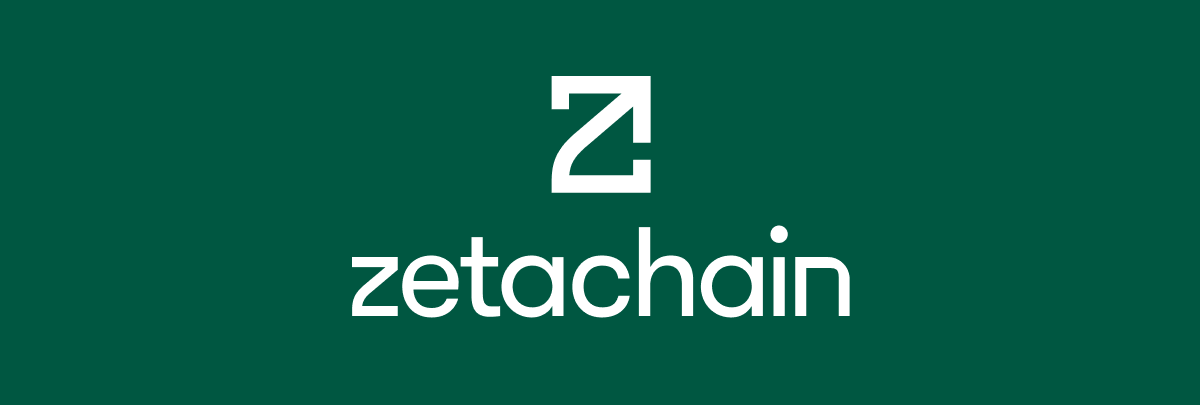
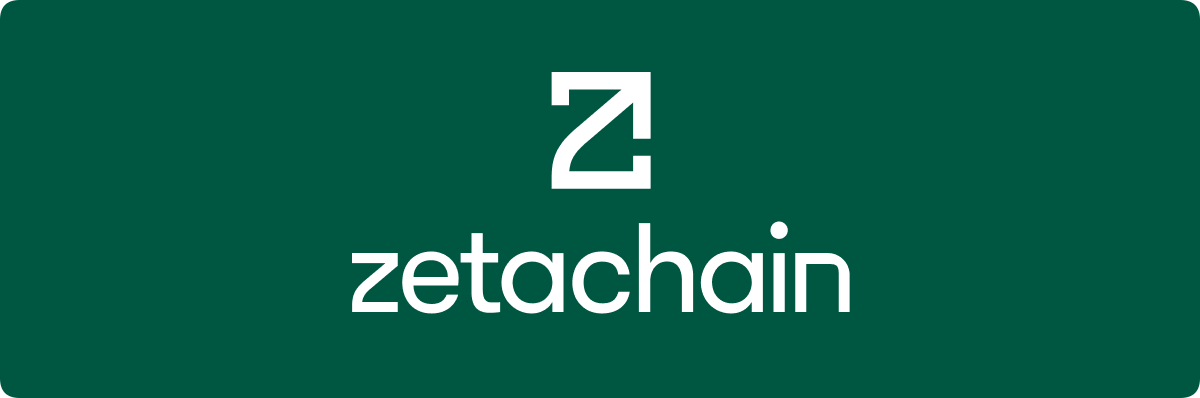
zetachain updated (#45)
* table added

* table added

* formatting added

* _category_.json updated

* telegram-bots.md updated

* new zetachain img uploaded

* description updated

diff --git a/docs/zetachain/useful-tools/telegram-bots.md b/docs/zetachain/useful-tools/telegram-bots.md
@@ -7,27 +7,13 @@ description: Telegram Bots
 
 > Telegram bots are designed to monitor nodes, provide real-time alerts and health statistics. Bots deliver instant notifications on server downtimes, resource usage, or governance proposals, enabling administrators to act swiftly in response to any anomalies.
 
-#### NodesChecker | Nodes.Guru
-Check your nodes status online and receive instant notification if something is wrong with your node.
-```bash
-https://t.me/NodesGuru_bot
-```
+To contribute your own resource, simply click on **Edit this** page at the bottom, insert your resource using Markdown formatting, and then initiate a pull request for the submission to be reviewed.
 
-#### Governance bot | NodeJumper
-A telegram bot to notify users of governance proposals when they're available for voting.
-```bash
-https://t.me/nodejumper_governance_bot
-```
-
-#### Testnet proposal bot | kjnodes
-```bash
-https://t.me/kjnodes_testnet_proposal_bot
-```
-
-#### UpTime bot | Posthuman
-Bot  can monitor your node uptime, and not only warns that the validator is already in jail but pings you when your validator starts skipping blocks to keep you out of jail.
-```bash
-https://t.me/ZetaChainUpTime_bot
-```
+| Name | Description | Author | Date added/updated |
+| --- | --- | --- | --- |
+| [Testnet Proposal Bot](https://t.me/kjnodes_testnet_proposal_bot) |  | [kjnodes](https://github.com/kj89) | 2023-10-10 |
+| [Governance Bot](https://t.me/nodejumper_governance_bot) | A telegram bot to notify users of governance proposals when they're available for voting. | [NodeJumper](https://github.com/nodejumper-org) | 2023-09-14 |
+| [NodesChecker](https://t.me/NodesGuru_bot) | Check your nodes status online and receive instant notification if something is wrong with your node. | [Nodes.Guru](https://github.com/nodesguru) | 2023-10-11 |
+| [UpTime bot](https://t.me/ZetaChainUpTime_bot) | Bot  can monitor your node uptime, and not only warns that the validator is already in jail but pings you when your validator starts skipping blocks to keep you out of jail. | [Posthuman](https://github.com/Validator-POSTHUMAN) | 2023-07-19 |
 
 

diff --git a/docs/zetachain/useful-tools/other-tools.md b/docs/zetachain/useful-tools/other-tools.md
@@ -5,18 +5,19 @@ description: Other-tools
 
 # Other Tools
 
-#### Network information script | F5 Nodes
+> This page is a repository of valuable tools and resources offered by the Haqq Community, including monitoring systems, dashboards, and versatile platforms. These resources are designed to enhance your capabilities and are backed by Haqq Community's commitment to support your needs.
 
-> This script provides information about the Zetachain network, validators, and proposals by interacting with the Zetachain RPC API.
-```bash
-https://github.com/f5nodes/zetachain
-```
+:::info
+The following page contains links to third-party content. Haqq Network does not endorse or provide support for these contributions.
+:::
 
-#### Monitoring tool | NodeJumper
+To contribute your own resource, simply click on **Edit this page** at the bottom, insert your resource using Markdown formatting, and then initiate a pull request for the submission to be reviewed.
 
-> A powerful and easy-to-use monitoring tool for server hardware and validator nodes with alerts via telegram bot and grafana dashboards.
-```bash
-https://github.com/nodejumper-org/monitoring-tool
-```
+## Tools
+
+| Contribution | Description | Author | Date added/updated |
+| --- | --- | --- | --- |
+| [Network Information Script](https://github.com/f5nodes/zetachain) | This script provides information about the Zetachain network, validators, and proposals by interacting with the Zetachain RPC API. | [F5 Nodes](https://github.com/f5nodes) | 2023-10-09 |
+| [Monitoring Tool](https://github.com/nodejumper-org/monitoring-tool) | A powerful and easy-to-use monitoring tool for server hardware and validator nodes with alerts via telegram bot and grafana dashboards. | [NodeJumper](https://github.com/nodejumper-org) | 2023-06-08 |
 
 

diff --git a/docs/haqq-network/useful-tools/explorers.md b/docs/haqq-network/useful-tools/explorers.md
@@ -11,14 +11,14 @@ description: Explorers
 
 | Name | Layer | Network | URL |
 | --- | --- | --- | --- |
-| Anode | Cosmos | haqq_11235-1 (Mainnet) | https://main.anode.team/haqq |
+| Anode | Cosmos | Mainnet (haqq_11235-1) | https://main.anode.team/haqq |
 | Blockscout | EVM | Mainnet | https://explorer.haqq.network |
-| Blockscout | EVM | Testnet | https://explorer.testedge2.haqq.network |
-| L0vd | Cosmos | haqq_11235-1 (Mainnet) | https://explorers.l0vd.com/haqq-mainnet |
-| Nodes.Guru | Cosmos | haqq_11235-1 (Mainnet) | https://haqq.explorers.guru |
-| NodeStake | Cosmos | haqq_11235-1 (Mainnet) | https://explorer.nodestake.top/haqq |
-| StakeMe | Cosmos | haqq_11235-1 (Mainnet) | https://haqq.exploreme.pro |
-| STAVR | Cosmos | haqq_11235-1 (Mainnet) | https://explorer.stavr.tech/HAQQ-Mainnet | 
-| Ping.pub | Cosmos | haqq_11235-1 (Mainnet) | https://ping.pub/haqq | 
-| Ping.pub | Cosmos | haqq_54211-3 (Testnet) | https://testnet.ping.pub/haqq |
+| Blockscout | EVM | Testnet (Testedge2) | https://explorer.testedge2.haqq.network |
+| L0vd | Cosmos | Mainnet (haqq_11235-1) | https://explorers.l0vd.com/haqq-mainnet |
+| Nodes.Guru | Cosmos | Mainnet (haqq_11235-1) | https://haqq.explorers.guru |
+| NodeStake | Cosmos | Mainnet (haqq_11235-1) | https://explorer.nodestake.top/haqq |
+| StakeMe | Cosmos | Mainnet (haqq_11235-1) | https://haqq.exploreme.pro |
+| STAVR | Cosmos | Mainnet (haqq_11235-1) | https://explorer.stavr.tech/HAQQ-Mainnet | 
+| Ping.pub | Cosmos | Mainnet (haqq_11235-1) | https://ping.pub/haqq | 
+| Ping.pub | Cosmos | Testnet (haqq_54211-3) | https://testnet.ping.pub/haqq |
 

diff --git a/docs/zetachain/useful-tools/explorers.md b/docs/zetachain/useful-tools/explorers.md
@@ -9,37 +9,12 @@ description: Explorers
 
 ### There are a number of explorers that you can use for ZetaChain:
 
-#### ZetaScan (official)
-```bash
-https://explorer.zetachain.com
-```
-
-#### Blockscout
-```bash
-https://zetachain-athens-3.blockscout.com
-```
-
-#### Nodes.Guru
-```bash
-https://zetachain.explorers.guru
-```
-
-#### NodeStake
-```bash
-https://explorer.nodestake.top/zeta-testnet
-```
-
-#### kjnodes 
-```bash
-https://explorer.kjnodes.com/zetachain-testnet
-```
-
-#### ITRocket
-```bash
-https://testnet.itrocket.net/zetachain
-```
-
-#### StakeMe
-```bash
-https://zetachain.exploreme.pro
-```
+| Name | Layer | Network | URL |
+| --- | --- | --- | --- |
+| Blockscout | EVM | Testnet (Athens-3) | https://zetachain-athens-3.blockscout.com |
+| ITRocket | Cosmos | Testnet (Athens-3) | https://testnet.itrocket.net/zetachain |
+| kjnodes | Cosmos | Testnet (athens_7001-1) | https://explorer.kjnodes.com/zetachain-testnet |
+| NodeStake | Cosmos | Testnet (athens_7001-1) | https://explorer.nodestake.top/zeta-testnet |
+| Nodes.Guru | Cosmos | Testnet (athens_7001-1) | https://zetachain.explorers.guru |
+| StakeMe | Cosmos | Testnet (athens_7001-1) | https://zetachain.exploreme.pro | 
+| ZetaScan (official) | EVM | Testnet (Athens-3) | https://explorer.zetachain.com |
